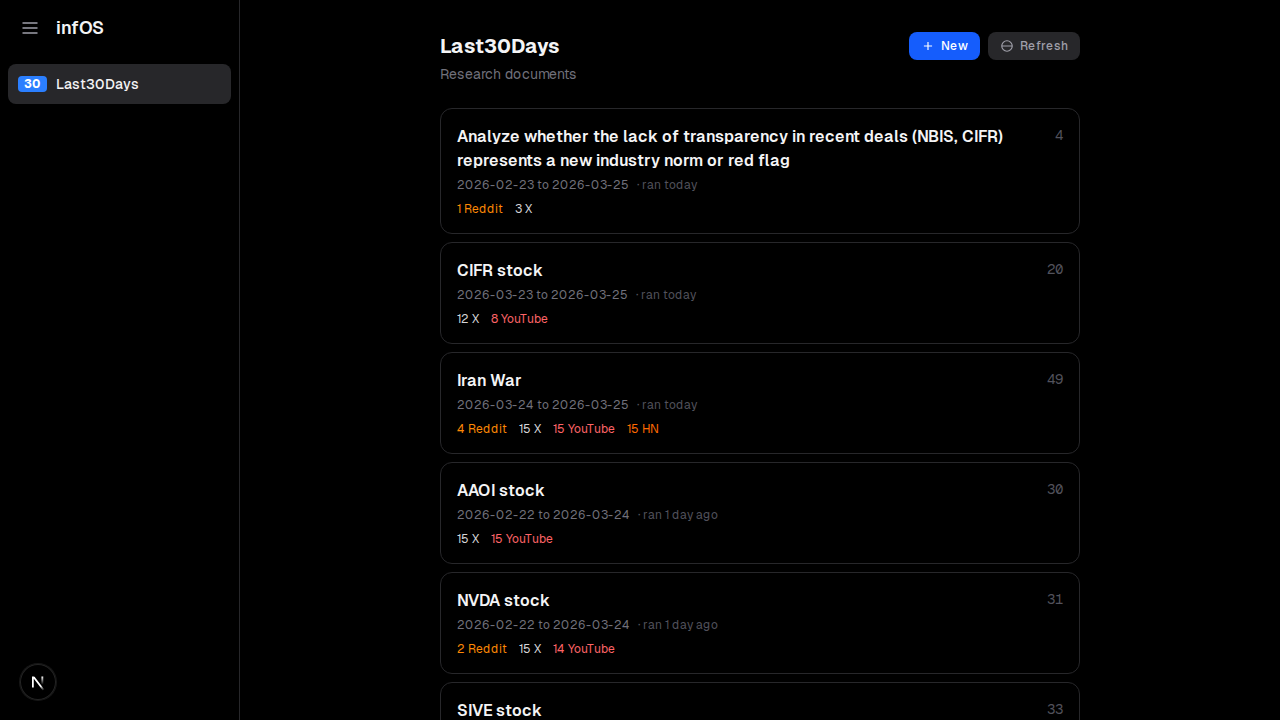
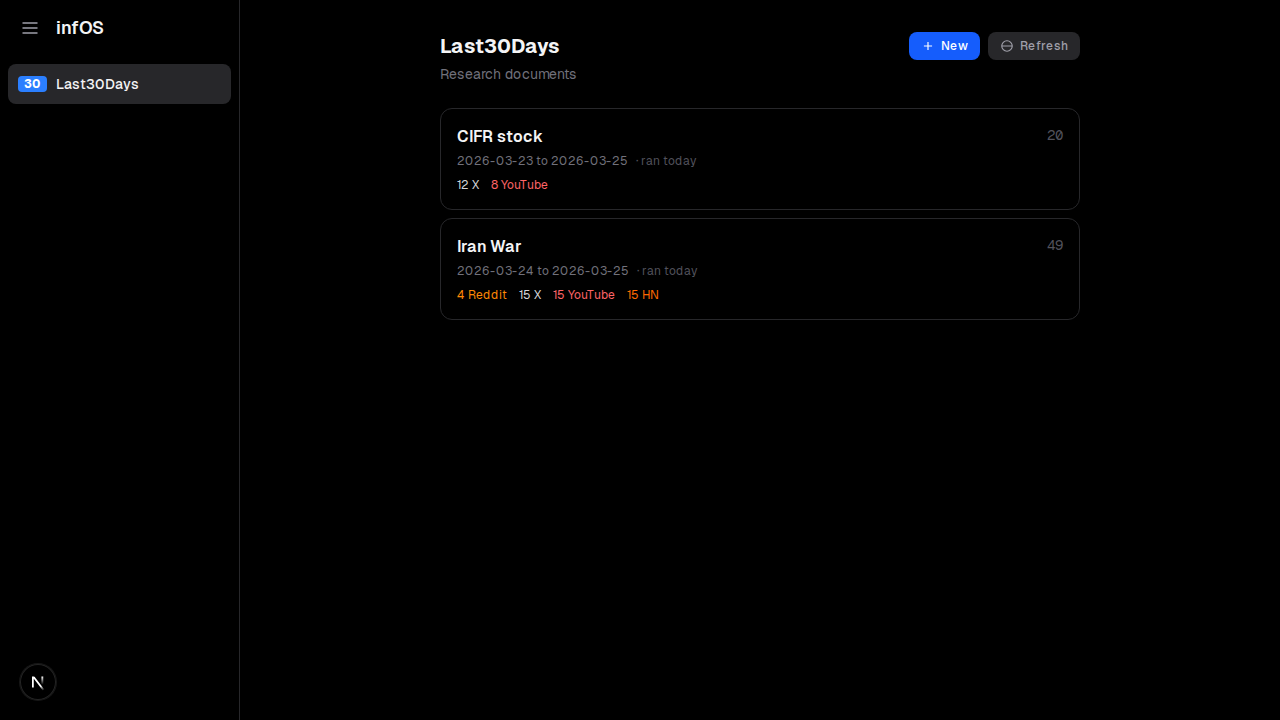
Update README and screenshots
- Clean list screenshot showing only two example documents
- Add note about Last30Days API key setup for sources
- Mark CLI research/parse steps as optional (can do from webapp)

diff --git a/README.md b/README.md
@@ -18,7 +18,7 @@ A web viewer for [Last30Days](https://github.com/mvanhorn/last30days-skill) rese
 
 ## Prerequisites
 
-- [Last30Days skill](https://github.com/mvanhorn/last30days-skill) installed (for data collection)
+- [Last30Days skill](https://github.com/mvanhorn/last30days-skill) installed (for data collection). See its README for setting up API keys for X/Twitter, Reddit, YouTube, TikTok, etc.
 - Node.js 18+
 - Python 3.10+
 - Anthropic API key (optional, for AI summaries)
@@ -33,10 +33,10 @@ npm install
 cp .env.local.example .env.local
 # Edit .env.local with your ANTHROPIC_API_KEY
 
-# Run a research query to generate data
+# Optional - can also do from the webapp
 python3 scripts/run-last30days.py "NVDA stock"
 
-# Parse the results into JSON for the webapp
+# Optional - can also do from the webapp
 python3 scripts/parse-last30days.py
 
 # Start the dev server
